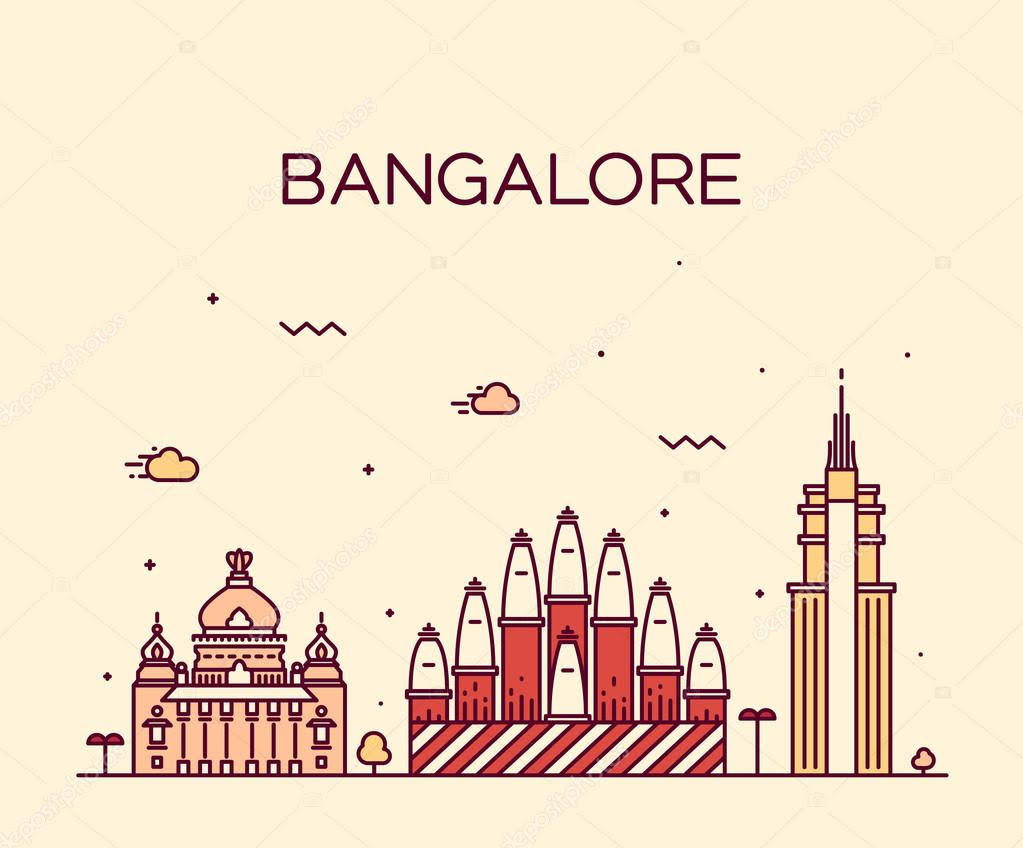
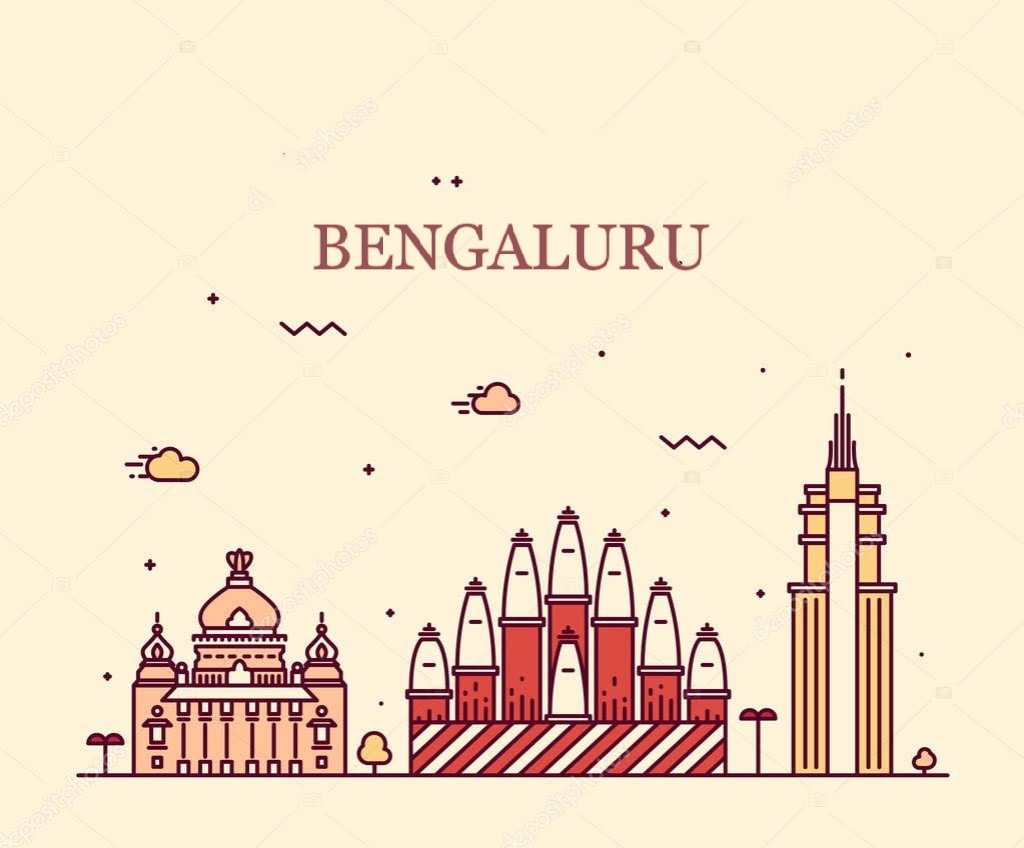
FrontEnd Completed

diff --git a/FabRoadies FrontEnd/src/app/ticket-booking-page/ticket-booking-page.component.html b/FabRoadies FrontEnd/src/app/ticket-booking-page/ticket-booking-page.component.html
@@ -17,16 +17,16 @@
                     <p class="MLine"> All Buses include Safety as a Major Factor!!</p>
                 <div class="row mb-3 card card-body" id="Title"> <!--Headings Bar - Single Row-->
                     <div class="row">
-                        <div class="col-md-3 text-right"> <!--Heading Agency-->
+                        <div class="col-md-3 text-right fs-6"> <!--Heading Agency-->
                             <p> Bus Agency</p>
                         </div>
-                        <div class="col-md-3 text-right"> <!--Heading Depart-->
+                        <div class="col-md-3 text-right fs-6"> <!--Heading Depart-->
                             <p> Departure </p>
                         </div>
-                        <div class="col-md-3 text-right"> <!--Heading Arrival-->
+                        <div class="col-md-3 text-right fs-6"> <!--Heading Arrival-->
                             <p> Arrival </p>
                         </div>
-                        <div class="col-md-2 text-right"> <!--Heading Fare-->
+                        <div class="col-md-2 text-right fs-6"> <!--Heading Fare-->
                             <p> Fare </p>
                         </div>
                         <!-- <div class="col-md-1 text-right">
@@ -34,18 +34,18 @@
                         </div>  -->
                     </div>
                 </div>
-                <div class="row mb-3 card card-body" *ngFor="let b of buses">           <!--opening div for single card body *ngFor="let b of buses" to be added-->  
+                <div class="row mb-3 card card-body ds" *ngFor="let b of buses" >           <!--opening div for single card body *ngFor="let b of buses" to be added-->  
                     <div class=" row">                          <!--Row1 Card 1-->
-                        <div class="col-md-3 text-right">
+                        <div class="col-md-3 text-right fs-6">
                             <p>{{b.agency}}</p>        <!--Agency {{b.agency}}-->
                         </div>
-                        <div class="col-md-3 text-right ">
+                        <div class="col-md-3 text-right fs-6">
                             <p>{{b.departureCity}} </p>               <!--Departure Time {{b.departuretime}} -->
                         </div>
-                        <div class="col-md-3 text-right">
+                        <div class="col-md-3 text-right fs-6">
                             <p> <b>{{b.arrivalCity }}</b></p>                    <!--Arrival Time {{b.arrivaltime}} Not defined in backend yet--> 
                         </div>
-                        <div class="col-md-2 text-right">
+                        <div class="col-md-3 text-center fs-6">
                             <p>{{b.price | currency: "INR" : "symbol"}}</p>                 <!--Price {{b.price}}-->
                         </div>
                      <!--
@@ -55,11 +55,11 @@
                     -->
                     </div>
                     <div class="row">                           <!--Row 2 Card 1-->
-                        <div class="col-md-3 text-right">
+                        <div class="col-md-3 text-right fs-6">
                             <p>  {{b.busType}}</p>                 <!--Bustype {{b.busType}}-->
                         </div>
-                        <div class="col-md-3 text-right">
-                            <p>{{b.departuretime}}</p>             <!--Departure City {{b.departureCity}}-->
+                        <div class="col-md-3 text-right fs-6">
+                            <p><b>{{b.departuretime}}</b></p>             <!--Departure City {{b.departureCity}}-->
                         </div>
                        <!--<div class="col-md-3">
                             <p> {{b.arrivalCity}} </p>                Arrival City  {{b.Arrival}}

diff --git a/FabRoadies FrontEnd/src/app/browse/browse.component.html b/FabRoadies FrontEnd/src/app/browse/browse.component.html
@@ -97,11 +97,11 @@
             <div class="card mx-bg-image hover-zoom" id="destination-icon" style="width: 18rem;">
                 <img src="/assets/bangalore-img.jpg" class="card-img-top" alt="...">
                 <div class="card-body">
-                    <p class="card-text">Bangalore</p>
+                    <p class="card-text">Bengaluru</p>
                     <ul>
-                        <li>Bangalore to Pune</li>
-                        <li>Bangalore to Hyderabad</li>
-                        <li>Bangalore to Mumbai</li>
+                        <li>Bengaluru to Pune</li>
+                        <li>Bengaluru to Hyderabad</li>
+                        <li>Bengaluru to Mumbai</li>
                     </ul>
                 </div>
             </div>
@@ -114,7 +114,7 @@
                     <p class="card-text">Chennai</p>
                     <ul>
                         <li>Chennai to Pune</li>
-                        <li>Chennai to Bangalore</li>
+                        <li>Chennai to Bengaluru</li>
                         <li>Chennai to Madurai</li>
                     </ul>
                 </div>
@@ -127,7 +127,7 @@
                     <p class="card-text">Pune</p>
                     <ul>
                         <li>Pune to Hyderabad</li>
-                        <li>Pune to Bangalore</li>
+                        <li>Pune to Bengaluru</li>
                         <li>Pune to Mumbai</li>
                     </ul>
                 </div>
@@ -143,8 +143,8 @@
                     <p class="card-text">Mumbai</p>
                     <ul>
                         <li>Mumbai to Pune</li>
-                        <li>Mumbai to Bangalore</li>
-                        <li>Mumbai to Delhi</li>
+                        <li>Mumbai to Bengaluru</li>
+                        <li>Mumbai to New Delhi</li>
                     </ul>
                 </div>
             </div>
@@ -155,7 +155,7 @@
                 <div class="card-body">
                     <p class="card-text">Kolkata</p>
                     <ul>
-                        <li>Kolkata to Delhi</li>
+                        <li>Kolkata to New Delhi</li>
                         <li>Kolkata to Jamshedpur</li>
                         <li>Kolkata to Orissa</li>
                     </ul>
@@ -166,11 +166,11 @@
             <div class="card bg-image hover-zoom" id="destination-icon" style="width: 18rem;">
                 <img src="/assets/delhi-img.jpg" class="card-img-top" alt="...">
                 <div class="card-body">
-                    <p class="card-text">Delhi</p>
+                    <p class="card-text">New Delhi</p>
                     <ul>
-                        <li>Delhi to Agra</li>
-                        <li>Delhi to Noida</li>
-                        <li>Delhi to Chattisgarh</li>
+                        <li>New Delhi to Agra</li>
+                        <li>New Delhi to Noida</li>
+                        <li>New Delhi to Chattisgarh</li>
                     </ul>
                 </div>
             </div>

diff --git a/FabRoadies FrontEnd/src/app/app.component.html b/FabRoadies FrontEnd/src/app/app.component.html
@@ -52,33 +52,33 @@
 <!-------------admin navbar-->
 <nav [hidden]=!flag class="navbar navbar-expand-lg navbar-light" style="background-color:#91ee45f3;">
     <div class="container-fluid">
-        <a class="navbar-brand" routerLink='/admin-browse'>
+        <a class="navbar-brand" routerLink='/admin-browse' style="font-family: 'Francois One', sans-serif;font-size:30px;">
             <img id="bus-icon" src="/assets/icon01.jpg" (click)="home()"> FabRoadies</a>
         <button class="navbar-toggler" type="button" data-bs-toggle="collapse" data-bs-target="#navbarSupportedContent"
             aria-controls="navbarSupportedContent" aria-expanded="false" aria-label="Toggle navigation">
             <span class="navbar-toggler-icon"></span>
         </button>
-        <div class="collapse navbar-collapse offset-md-6" id="navbarSupportedContent">
+        <div class="collapse navbar-collapse offset-md-5" id="navbarSupportedContent">
             <ul class="navbar-nav me-auto mb-2 mb-lg-0">
                 <li class="nav-item">
-                    <a class="nav-link" routerLink='/add-bus'><b class="navlinks">Add Bus</b></a>
+                    <a class="nav-link fs-5" routerLink='/add-bus'><b class="navlinks">Add Bus</b></a>
                 </li>
                 <li class="nav-item">
-                    <a class="nav-link" routerLink='/admin_bus-list'><b class="navlinks">List Of Bus</b></a>
+                    <a class="nav-link fs-5" routerLink='/admin_bus-list'><b class="navlinks">List Of Bus</b></a>
                 </li>
                 <li class="nav-item dropdown">
-                    <a class="nav-link dropdown-toggle" href="#" id="navbarDropdown" role="button"
+                    <a class="nav-link dropdown-toggle fs-5" href="#" id="navbarDropdown" role="button"
                         data-bs-toggle="dropdown" aria-expanded="false">
                         <b class="navlinks">
                         Search Bus</b>
                     </a>
                     <ul class="dropdown-menu" aria-labelledby="navbarDropdown">
-                        <li><a class="dropdown-item" routerLink='/search'>Bus Number</a></li>
+                        <li><a class="dropdown-item fs-5" routerLink='/search'>Bus Number</a></li>
                         <!-- <li><a class="dropdown-item" href="#">Destination</a></li>
                         <li><a class="dropdown-item" href="#">Departure Date</a></li> -->
                     </ul>
                 </li>
-                <button class="btn btn-success mx-3" (click)="logout()" >Logout</button>
+                <button class="btn btn-success mx-3 fs-5" (click)="logout()" >Logout</button>
             </ul>
         </div>
     </div>

diff --git a/FabRoadies FrontEnd/src/app/add-bus/add-bus.component.ts b/FabRoadies FrontEnd/src/app/add-bus/add-bus.component.ts
@@ -13,8 +13,8 @@ import { AdminService } from '../services/admin.service';
 export class AddBusComponent implements OnInit {
 
   addBus : BusAdmin = new BusAdmin();
-  source : string[] = ["Kolkata","Chennai","Pune","Mumbai","Bangalore","Delhi"];
-  destination : string[] = ["Kolkata","Chennai","Pune","Mumbai","Bangalore","Delhi"]
+  source : string[] = ["Kolkata","Chennai","Pune","Mumbai","Bengaluru","New Delhi"];
+  destination : string[] = ["Kolkata","Chennai","Pune","Mumbai","Bengaluru","New Delhi"]
   busType:string[]=["AC","Non-AC"]
 
   constructor(private service:AdminService, private router:Router) { }

diff --git a/FabRoadies FrontEnd/src/app/browse/browse.component.ts b/FabRoadies FrontEnd/src/app/browse/browse.component.ts
@@ -20,8 +20,8 @@ export class BrowseComponent implements OnInit {
   busq:Busquery=new Busquery();
   date: string = '';
   busl:BusAdmin[]=[];
-  destination : string[] = ["Kolkata","Chennai","Pune","Mumbai","Bangalore","Delhi"];
-  source : string[] = ["Kolkata","Chennai","Pune","Mumbai","Bangalore","Delhi"];
+  destination : string[] = ["Kolkata","Chennai","Pune","Mumbai","Bengaluru","New Delhi"];
+  source : string[] = ["Kolkata","Chennai","Pune","Mumbai","Bengaluru","New Delhi"];
 
   constructor(private service:AdminService,private router:Router) { }
 

diff --git a/FabRoadies FrontEnd/src/app/update/update.component.ts b/FabRoadies FrontEnd/src/app/update/update.component.ts
@@ -13,9 +13,9 @@ export class UpdateComponent implements OnInit {
 
   addBus : BusAdmin = new BusAdmin();
 
-  source : string[] = ["Kolkata","Chennai","Pune","Mumbai","Bangalore","Delhi"];
+  source : string[] = ["Kolkata","Chennai","Pune","Mumbai","Bengaluru","New Delhi"];
 
-  destination : string[] = ["Kolkata","Chennai","Pune","Mumbai","Bangalore","Delhi"]
+  destination : string[] = ["Kolkata","Chennai","Pune","Mumbai","Bengaluru","New Delhi"]
 
   busType:string[]=["AC","Non-AC"]
 

diff --git a/FabRoadies FrontEnd/src/app/ticket-booking-page/ticket-booking-page.component.css b/FabRoadies FrontEnd/src/app/ticket-booking-page/ticket-booking-page.component.css
@@ -3,7 +3,8 @@
 }
 
 .MLine{
-    font-family: cursive;
+    /* font-family: cursive; */
+    font-weight: bold;
     font-size: 15px;
     color: green;
     /*background-color: aquamarine; */
@@ -21,4 +22,11 @@
 
 .row mb-3 card card-body {
     border-radius: .30rem;
+}
+
+.ds{
+    background: rgba(172, 255, 47, 0.692);
+}
+.ds:nth-child(even){
+    background: rgba(172, 255, 47, 0.253);
 }

diff --git a/FabRoadies FrontEnd/src/app/update/update.component.html b/FabRoadies FrontEnd/src/app/update/update.component.html
@@ -5,7 +5,7 @@
         <div class="col-5">
             <div class="container my-4">
                 <div class="card" style="width: 20rem; height: 12rem;">
-                    <img src="assets/Images/7.jpg" class="card-img-top">
+                    <img src="assets/Images/5.jpeg" class="card-img-top">
                 </div>
             </div>
         </div>

diff --git a/FabRoadies FrontEnd/src/app/update/update.component.css b/FabRoadies FrontEnd/src/app/update/update.component.css
@@ -6,7 +6,7 @@
 
 .card-fluid{
     padding: 20px;
-    background-color: rgba(255, 0, 212, 0.24);
+    background-color: rgba(169, 235, 37, 0.486);
 }
 .card-text{
     padding-top: 20px;
